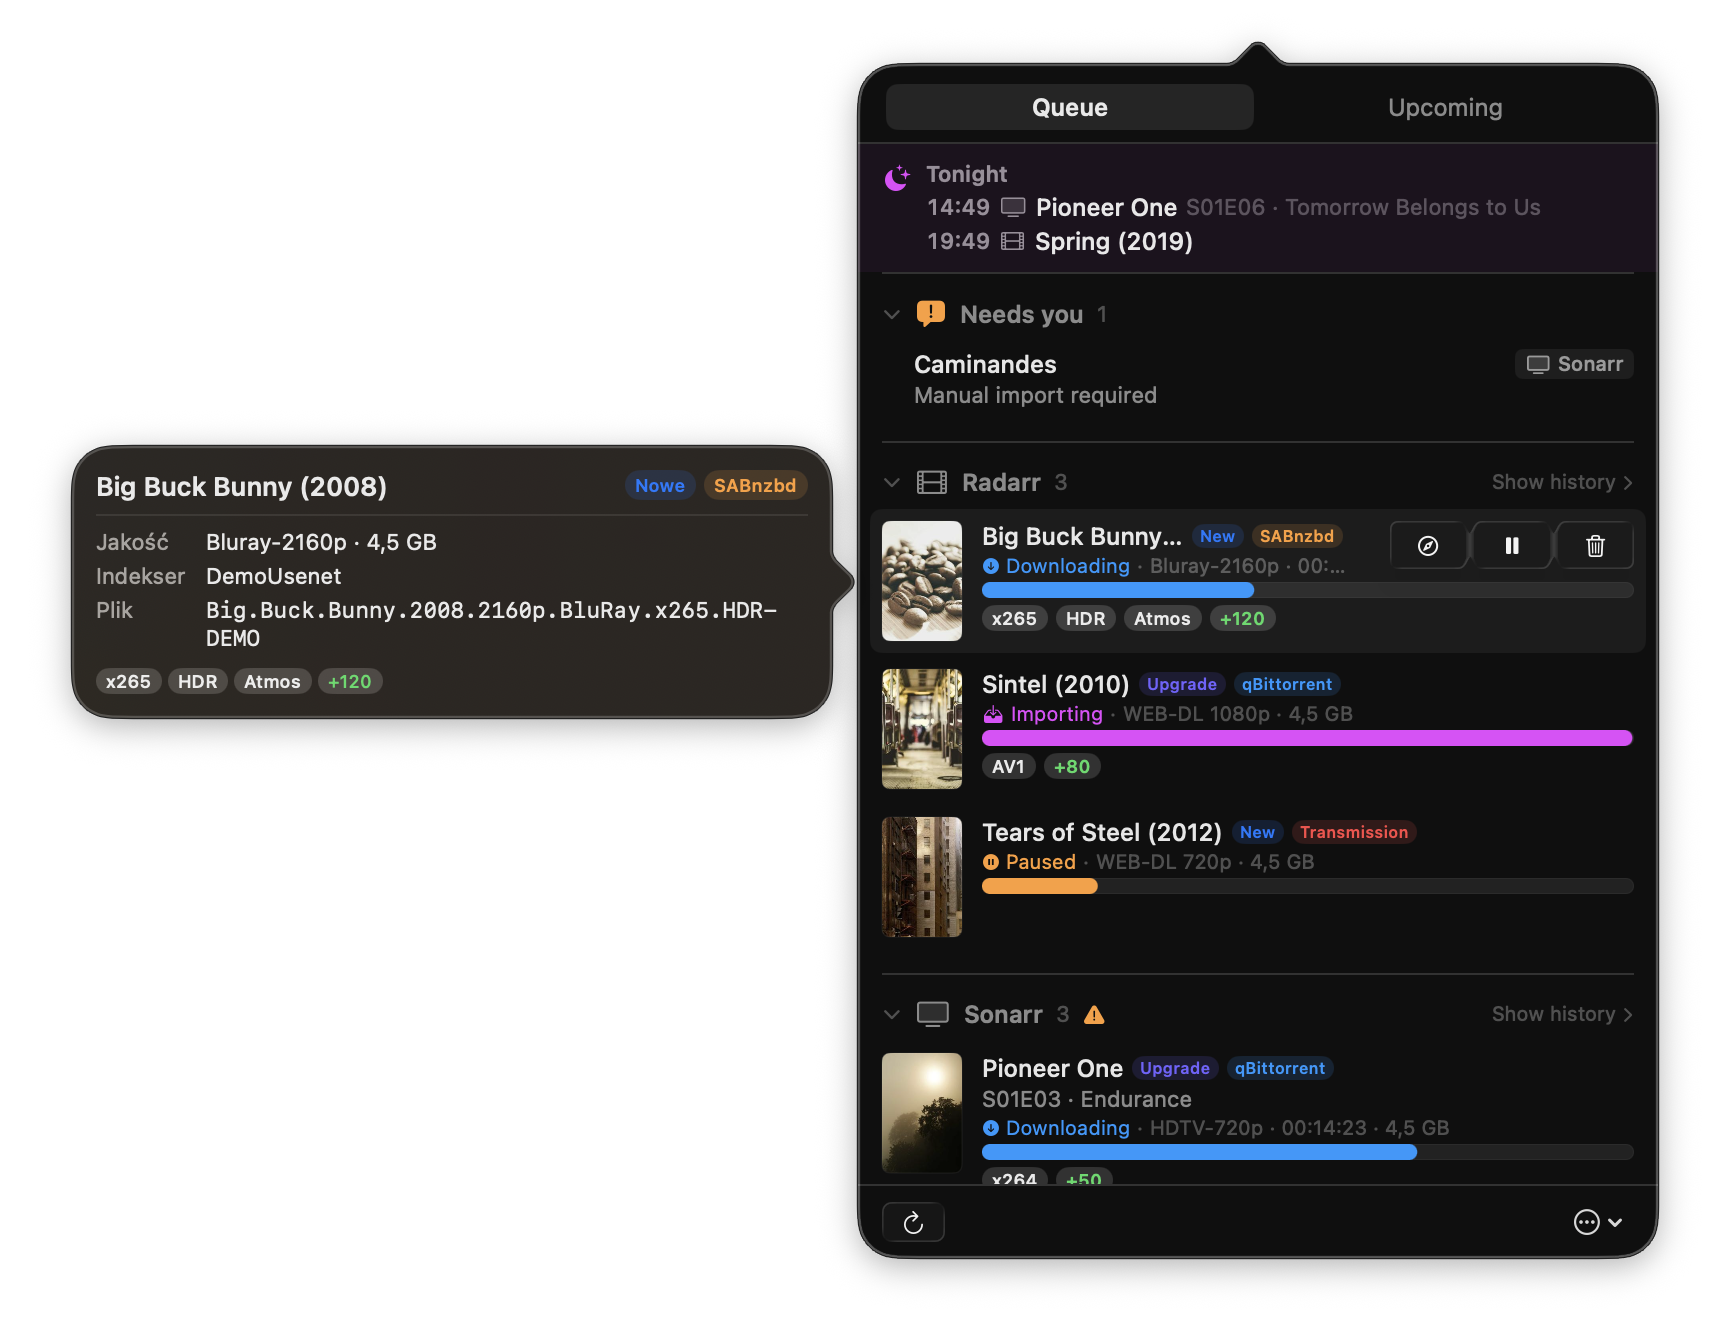
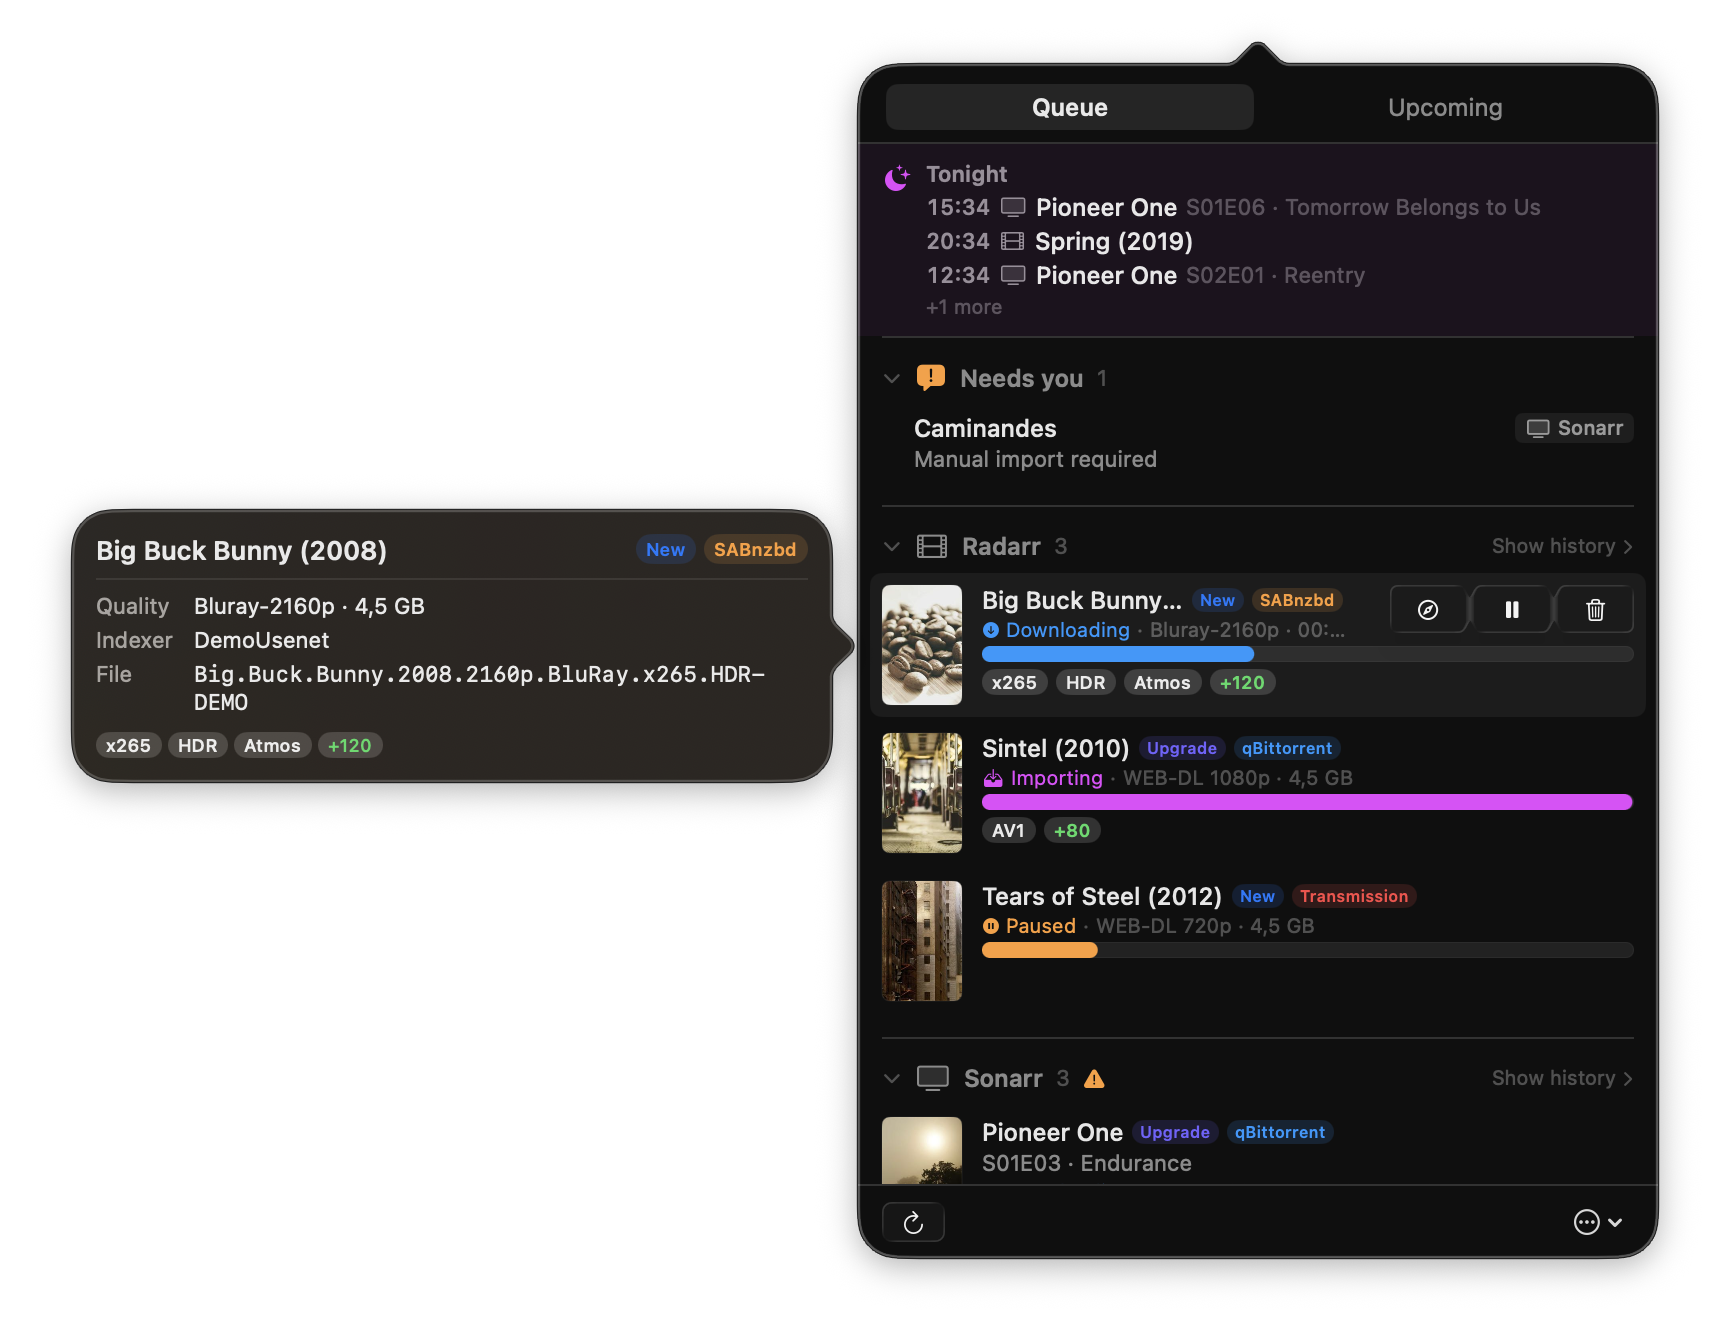
v0.8.3: truncate custom format tags to single row with fade-out

diff --git a/ArrBarr/Views/QueueRowView.swift b/ArrBarr/Views/QueueRowView.swift
@@ -234,24 +234,52 @@ struct QueueRowView: View {
     // MARK: - Custom format tags
 
     private var customFormatTags: some View {
-        FlowLayout(spacing: 4) {
-            ForEach(item.customFormats, id: \.self) { cf in
-                Text(cf)
-                    .font(.system(size: 9, weight: .medium))
-                    .padding(.horizontal, 5)
-                    .padding(.vertical, 1)
-                    .background(.quaternary, in: Capsule())
+        Color.clear
+            .frame(height: 14)
+            .frame(maxWidth: .infinity)
+            .overlay(alignment: .leading) {
+                HStack(spacing: 4) {
+                    ForEach(item.customFormats, id: \.self) { cf in
+                        Text(cf)
+                            .font(.system(size: 9, weight: .medium))
+                            .padding(.horizontal, 5)
+                            .padding(.vertical, 1)
+                            .background(.quaternary, in: Capsule())
+                    }
+                    if item.customFormatScore != 0 {
+                        let sign = item.customFormatScore > 0 ? "+" : ""
+                        Text("\(sign)\(item.customFormatScore)")
+                            .font(.system(size: 9, weight: .semibold))
+                            .foregroundStyle(item.customFormatScore > 0 ? .green : .red)
+                            .padding(.horizontal, 5)
+                            .padding(.vertical, 1)
+                            .background(.quaternary, in: Capsule())
+                    }
+                }
+                .fixedSize()
             }
-            if item.customFormatScore != 0 {
-                let sign = item.customFormatScore > 0 ? "+" : ""
-                Text("\(sign)\(item.customFormatScore)")
-                    .font(.system(size: 9, weight: .semibold))
-                    .foregroundStyle(item.customFormatScore > 0 ? .green : .red)
-                    .padding(.horizontal, 5)
-                    .padding(.vertical, 1)
-                    .background(.quaternary, in: Capsule())
-            }
+            .clipped()
+            .mask(
+                LinearGradient(
+                    stops: [
+                        .init(color: .black, location: 0),
+                        .init(color: .black, location: 0.85),
+                        .init(color: .clear, location: 1.0),
+                    ],
+                    startPoint: .leading,
+                    endPoint: .trailing
+                )
+            )
+            .help(Text(verbatim: customFormatsTooltip))
+    }
+
+    private var customFormatsTooltip: String {
+        var parts = item.customFormats.map { "[\($0)]" }
+        if item.customFormatScore != 0 {
+            let sign = item.customFormatScore > 0 ? "+" : ""
+            parts.append("\(sign)\(item.customFormatScore)")
         }
+        return parts.joined(separator: " ")
     }
 
     // MARK: - Display helpers
